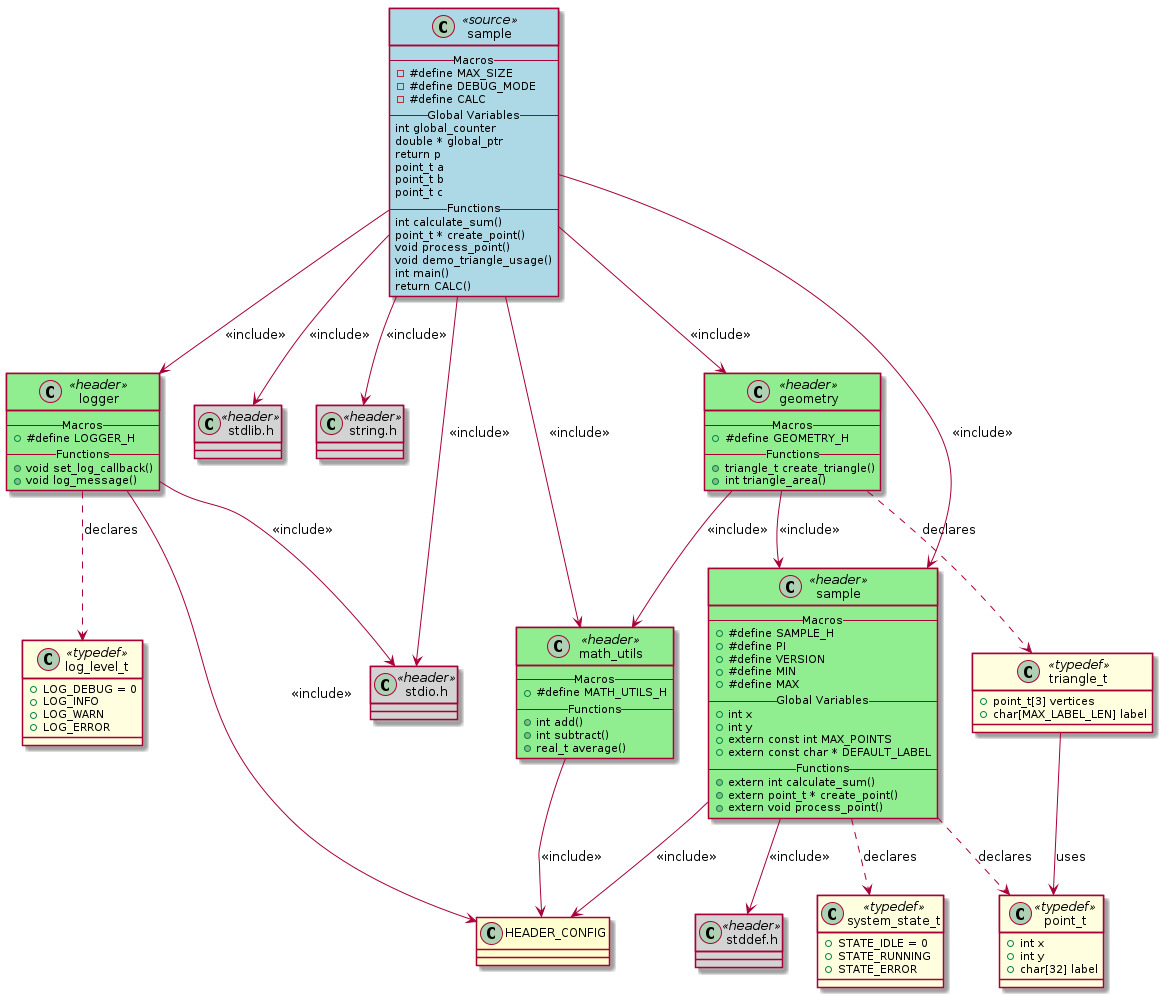
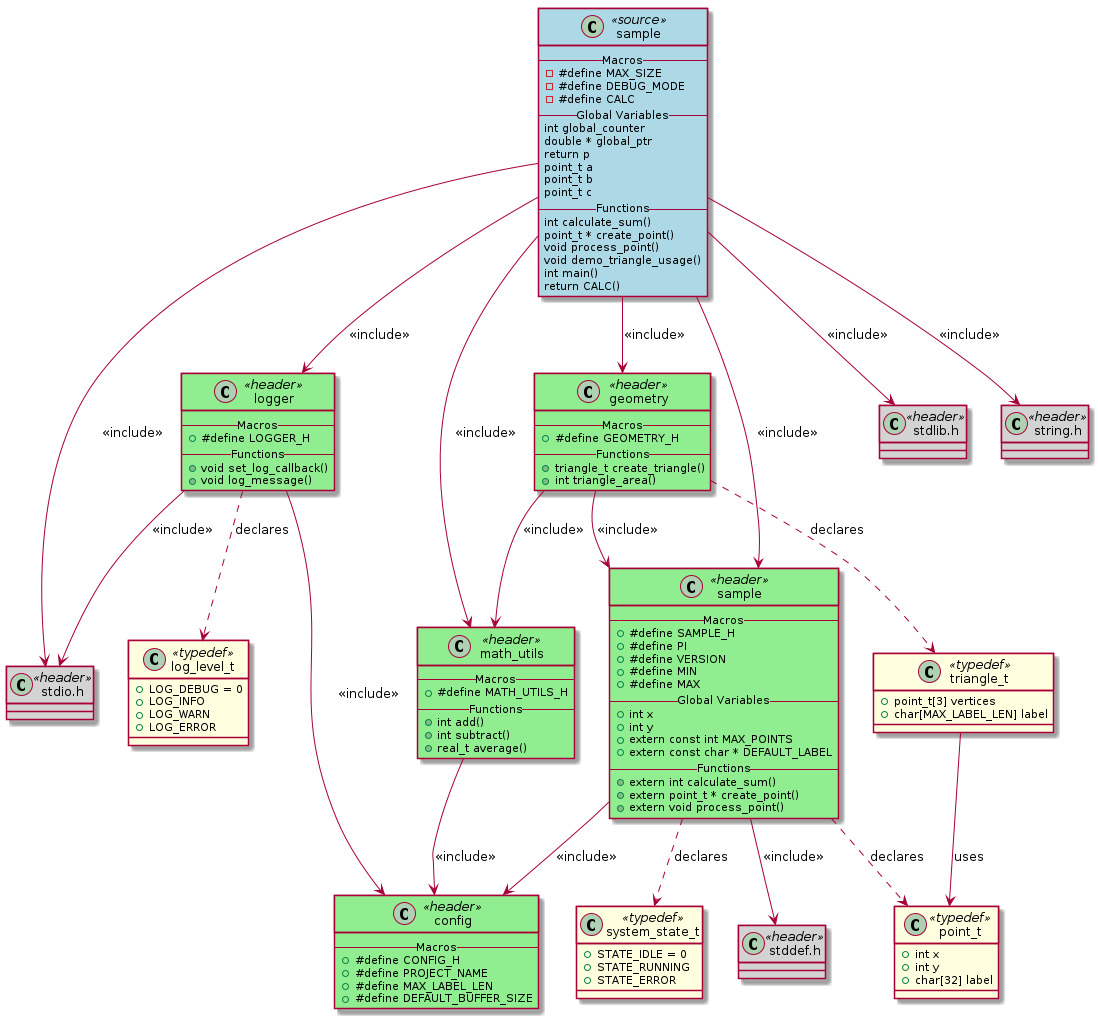
Fix geometry.puml missing class (#47)
* Improve nested include and typedef processing with recursive methods

* Add geometry image generation functionality

* Remove output PNG files and convert to JPG format

---------

diff --git a/c_to_plantuml/generator.py b/c_to_plantuml/generator.py
@@ -160,10 +160,18 @@ class PlantUMLGenerator:
         for include_relation in file_model.include_relations:
             included_file_path = include_relation.included_file
             included_file_model = None
+            # Try to find the included file model by matching file_path
             for key, model in project_model.files.items():
                 if model.file_path == included_file_path:
                     included_file_model = model
                     break
+            # If not found by file_path, try to find by relative path
+            if not included_file_model:
+                included_file_basename = Path(included_file_path).name
+                for key, model in project_model.files.items():
+                    if key == included_file_basename:
+                        included_file_model = model
+                        break
             if included_file_model:
                 header_basename = Path(included_file_model.file_path).stem
                 if header_basename not in seen_headers:
@@ -171,6 +179,14 @@ class PlantUMLGenerator:
                     lines.extend(
                         self._generate_header_class(included_file_model, header_basename)
                     )
+                
+                # Recursively process include relationships from the included file
+                self._process_nested_includes(included_file_model, project_model, seen_headers, lines)
+            else:
+                # Debug logging to see what's happening
+                import logging
+                logging.getLogger(__name__).debug(f"Could not find included file model for: {included_file_path}")
+                logging.getLogger(__name__).debug(f"Available keys: {list(project_model.files.keys())}")
             
             # Also process external headers from included files
             if included_file_model:
@@ -188,6 +204,77 @@ class PlantUMLGenerator:
                             )
 
         return lines
+
+    def _process_nested_includes(self, file_model: FileModel, project_model: ProjectModel, seen_headers: set, lines: List[str], visited_files: set = None, depth: int = 0) -> None:
+        """Recursively process include relationships from included files"""
+        if visited_files is None:
+            visited_files = set()
+        
+        # Prevent infinite recursion
+        if depth > 3 or file_model.file_path in visited_files:
+            return
+        
+        visited_files.add(file_model.file_path)
+        
+        for include_relation in file_model.include_relations:
+            included_file_path = include_relation.included_file
+            included_file_model = None
+            # Try to find the included file model by matching file_path
+            for key, model in project_model.files.items():
+                if model.file_path == included_file_path:
+                    included_file_model = model
+                    break
+            # If not found by file_path, try to find by relative path
+            if not included_file_model:
+                included_file_basename = Path(included_file_path).name
+                for key, model in project_model.files.items():
+                    if key == included_file_basename:
+                        included_file_model = model
+                        break
+            if included_file_model:
+                header_basename = Path(included_file_model.file_path).stem
+                if header_basename not in seen_headers:
+                    seen_headers.add(header_basename)
+                    lines.extend(
+                        self._generate_header_class(included_file_model, header_basename)
+                    )
+                    # Recursively process further nested includes
+                    self._process_nested_includes(included_file_model, project_model, seen_headers, lines, visited_files, depth + 1)
+
+    def _process_nested_typedefs(self, file_model: FileModel, project_model: ProjectModel, seen_typedefs: set, lines: List[str], visited_files: set = None, depth: int = 0) -> None:
+        """Recursively process typedefs from included files"""
+        if visited_files is None:
+            visited_files = set()
+        
+        # Prevent infinite recursion
+        if depth > 3 or file_model.file_path in visited_files:
+            return
+        
+        visited_files.add(file_model.file_path)
+        
+        for include_relation in file_model.include_relations:
+            included_file_path = include_relation.included_file
+            included_file_model = None
+            # Try to find the included file model by matching file_path
+            for key, model in project_model.files.items():
+                if model.file_path == included_file_path:
+                    included_file_model = model
+                    break
+            # If not found by file_path, try to find by relative path
+            if not included_file_model:
+                included_file_basename = Path(included_file_path).name
+                for key, model in project_model.files.items():
+                    if key == included_file_basename:
+                        included_file_model = model
+                        break
+            if included_file_model:
+                for typedef_relation in included_file_model.typedef_relations:
+                    typedef_name = typedef_relation.typedef_name
+                    if typedef_name not in seen_typedefs:
+                        seen_typedefs.add(typedef_name)
+                        lines.extend(self._generate_single_typedef_class(typedef_relation, included_file_model, project_model))
+                # Recursively process further nested typedefs
+                self._process_nested_typedefs(included_file_model, project_model, seen_typedefs, lines, visited_files, depth + 1)
 
     def _generate_header_class(self, file_model: FileModel, basename: str) -> List[str]:
         """Generate a class for a header file using the new PlantUML template"""
@@ -247,20 +334,8 @@ class PlantUMLGenerator:
                 seen_typedefs.add(typedef_name)
                 lines.extend(self._generate_single_typedef_class(typedef_relation, file_model, project_model))
         
-        # Process typedefs from included header files
-        for include_relation in file_model.include_relations:
-            included_file_path = include_relation.included_file
-            included_file_model = None
-            for key, model in project_model.files.items():
-                if model.file_path == included_file_path:
-                    included_file_model = model
-                    break
-            if included_file_model:
-                for typedef_relation in included_file_model.typedef_relations:
-                    typedef_name = typedef_relation.typedef_name
-                    if typedef_name not in seen_typedefs:
-                        seen_typedefs.add(typedef_name)
-                        lines.extend(self._generate_single_typedef_class(typedef_relation, included_file_model, project_model))
+        # Process typedefs from included header files (recursively)
+        self._process_nested_typedefs(file_model, project_model, seen_typedefs, lines)
         
         return lines
     
@@ -366,10 +441,18 @@ class PlantUMLGenerator:
         for include_relation in file_model.include_relations:
             included_file_path = include_relation.included_file
             included_file_model = None
+            # Try to find the included file model by matching file_path
             for key, model in project_model.files.items():
                 if model.file_path == included_file_path:
                     included_file_model = model
                     break
+            # If not found by file_path, try to find by relative path
+            if not included_file_model:
+                included_file_basename = Path(included_file_path).name
+                for key, model in project_model.files.items():
+                    if key == included_file_basename:
+                        included_file_model = model
+                        break
             if included_file_model:
                 # Process include relations from the included file
                 for nested_include_relation in included_file_model.include_relations:
@@ -396,10 +479,18 @@ class PlantUMLGenerator:
         for include_relation in file_model.include_relations:
             included_file_path = include_relation.included_file
             included_file_model = None
+            # Try to find the included file model by matching file_path
             for key, model in project_model.files.items():
                 if model.file_path == included_file_path:
                     included_file_model = model
                     break
+            # If not found by file_path, try to find by relative path
+            if not included_file_model:
+                included_file_basename = Path(included_file_path).name
+                for key, model in project_model.files.items():
+                    if key == included_file_basename:
+                        included_file_model = model
+                        break
             
             if included_file_model:
                 # Process external headers from this included file
